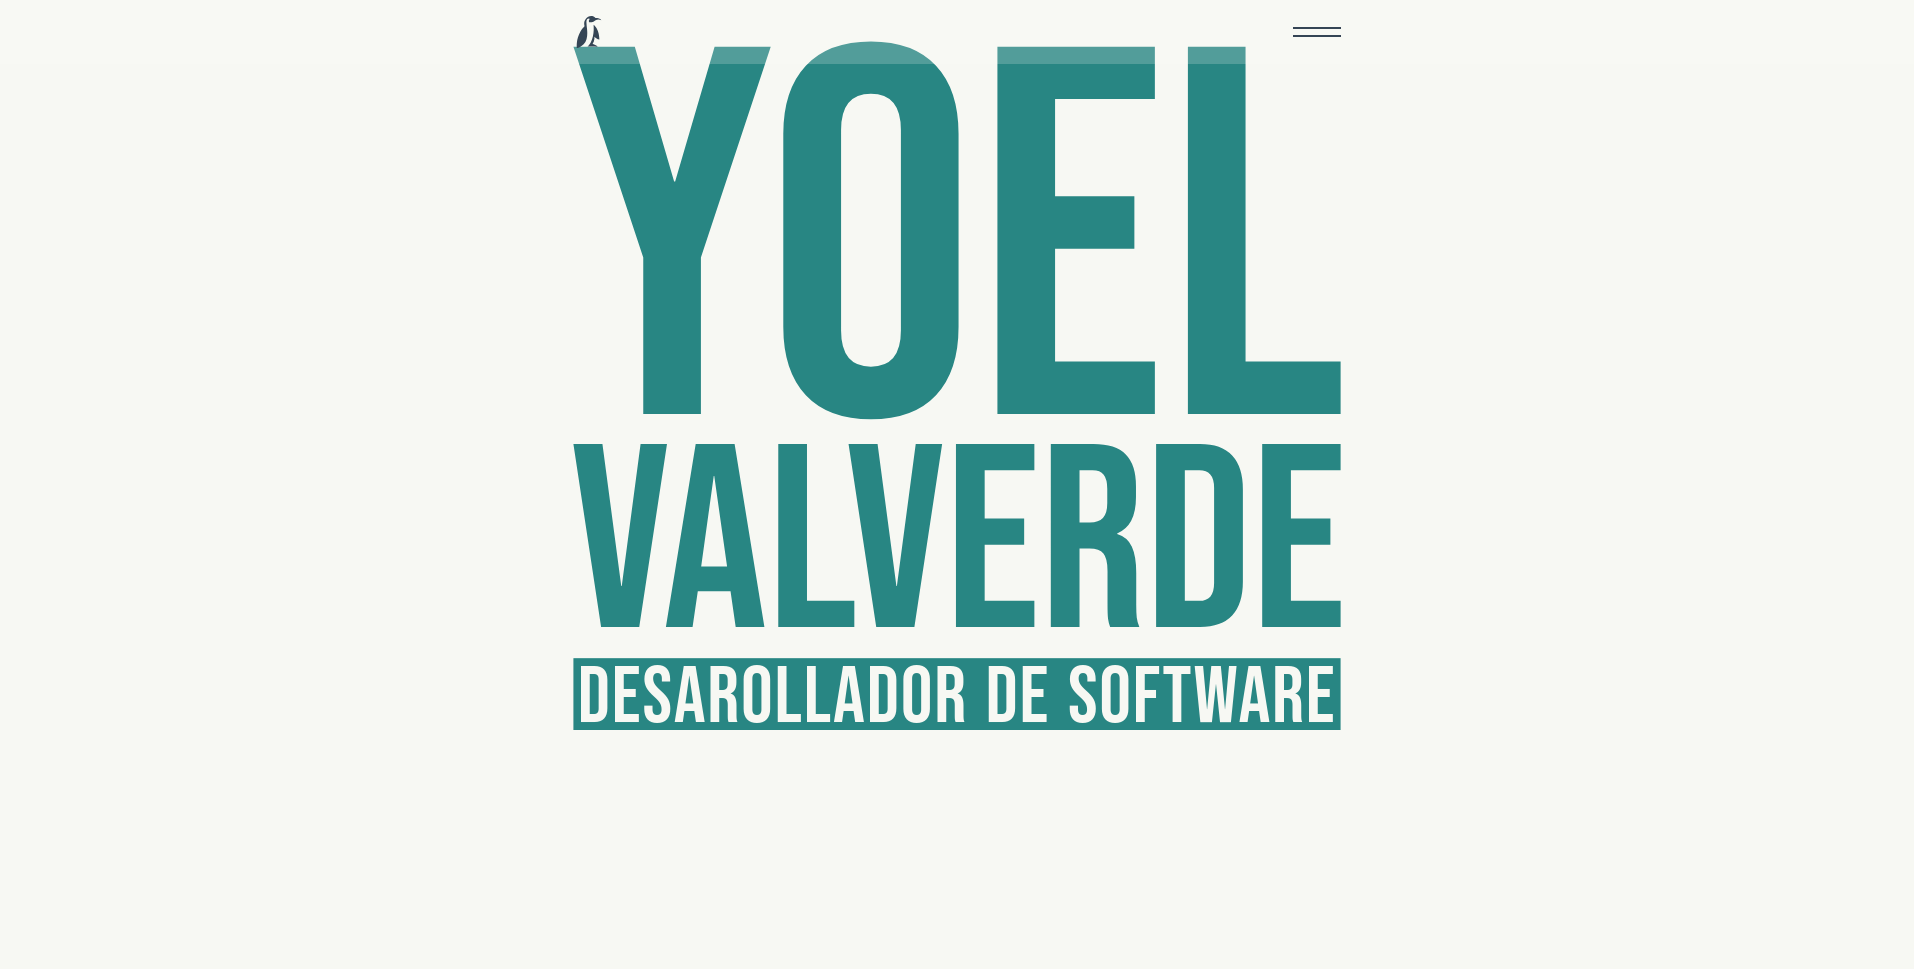
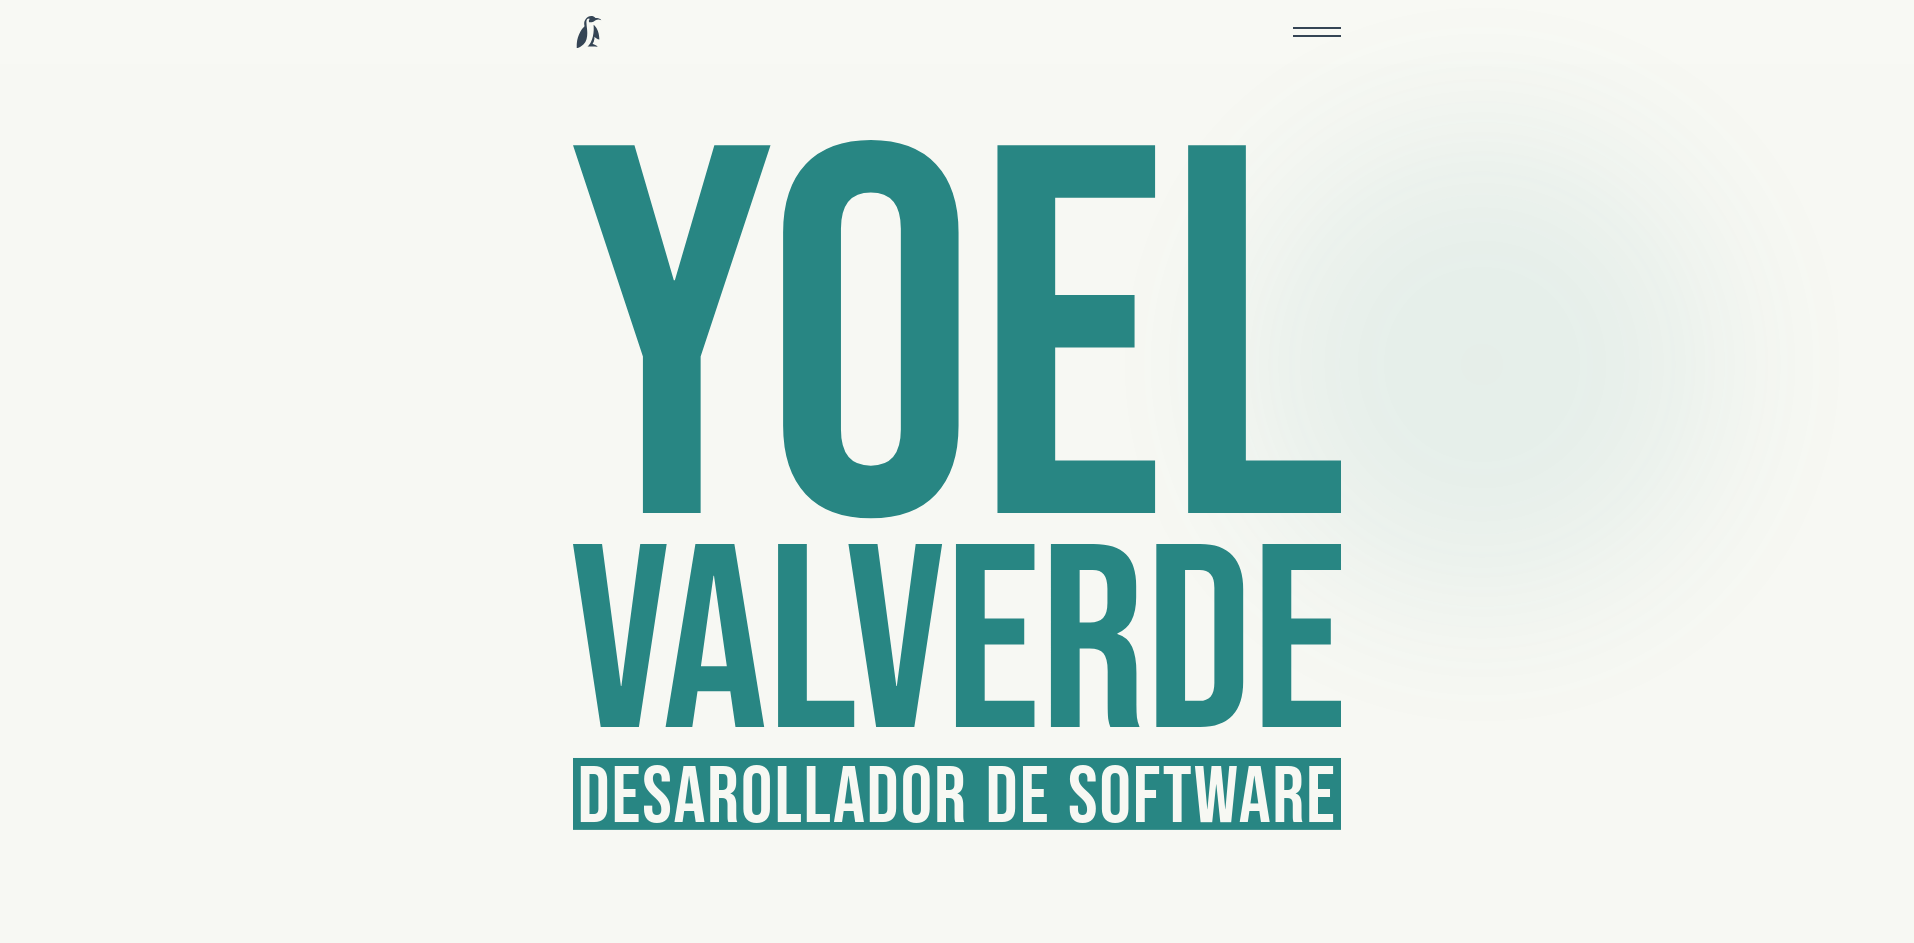
fix: change images and README

Changed region(s): [[0.2774, 0.3075, 0.709, 0.7688], [0.2774, 0.0308, 0.6782, 0.369], [0.2774, 0.7996, 0.709, 0.8918]]

diff --git a/README.md b/README.md
@@ -1,44 +1,30 @@
-![Logo](./public/logo.png)
+![Image homepage](./doc/v2/homepage.png)
 
-<h2 align="center">Yoel Valverde</h2>
+<h1>
+    <img src="./public/favicon.svg" alt="logo" />
+    Yoel Valverde
+</h1>
 
 <p align="center">
   <img src="https://img.shields.io/badge/Astro-000000.svg?style=for-the-badge&logo=astro&logoColor=#CF4A02" alt="Astro" />
   <img src="https://img.shields.io/badge/TypeScript-3178C6.svg?style=for-the-badge&logo=typescript&logoColor=white" alt="TypeScript" />
+  <img src="https://img.shields.io/badge/Tailwind_CSS-00BCFF.svg?style=for-the-badge&logo=tailwindcss&logoColor=white" alt="Tailwind CSS" />
 </p>
 
 -----
 
 Explore my personal web portfolio, an experience powered by the latest technologies: Astro and TypeScript. Dive into my digital world and discover more about my skills and projects! 🚀
 
+> ![INFO]
 > [https://yoelvalverde.dev](https://yoelvalverde.dev)
 
 --------
 
+![Image homepage](./doc/v2/works.png)
+
 ![index thumbnail](./doc/home.png)
 
-![categories thumbnail](./doc/categories.png)
-
 ![scripts thumbnail](./doc/scripts.png)
-
-
-## Installation
-
-```bash
-git clone https://github.com/yoelvp/yoelvp-homepage.git
-```
-
-```bash
-cd yoelvp-homepage
-```
-
-```bash
-bun install
-```
-
-```bash
-bun run dev
-```
 
 
 ## License
